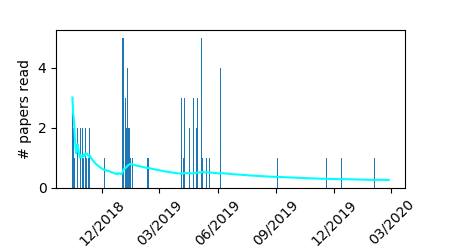
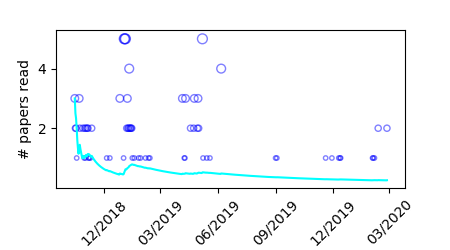
new plot

diff --git a/readingStats.py b/readingStats.py
@@ -4,6 +4,7 @@ import itertools
 from collections import Counter
 import matplotlib.pyplot as plt
 import matplotlib.dates as mdates
+import numpy as np
 import os
 from wordcloud import WordCloud
 
@@ -35,8 +36,9 @@ a = readDates.groupby('Date').size()
 idx = pd.date_range(min(readDates.Date), max(readDates.Date))
 a =a.reindex(idx,fill_value=0)
 fig, ax = plt.subplots(figsize=(4.5,2.5))
-ax.bar(idx,a.values, width=1)
 ax.plot(idx, a.expanding().mean().values,'cyan')
+a[a==0 ] = np.nan
+ax.scatter(idx,a.values, s=10*a.values, facecolors='none', edgecolors='b',alpha=.5)
 ax.xaxis.set_major_locator(mdates.MonthLocator(interval=3))
 #set major ticks format
 ax.xaxis.set_major_formatter(mdates.DateFormatter('%m/%Y'))
